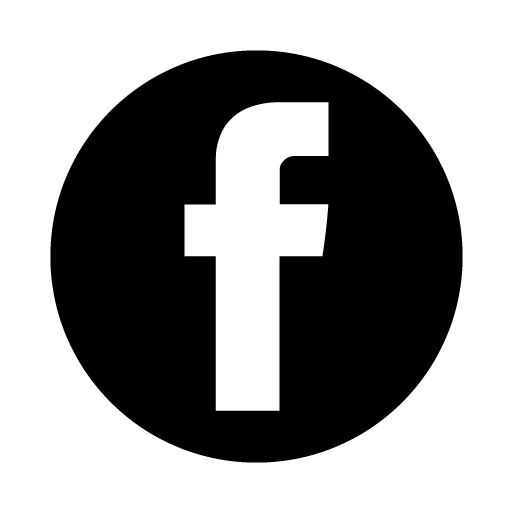
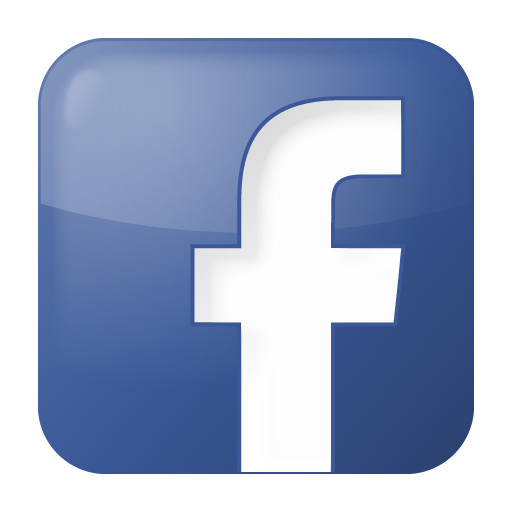
IamBACK

diff --git a/src/App.vue b/src/App.vue
@@ -8,17 +8,18 @@
         </div>
         <div id='footer-view' class="text-center">
             <b-img-lazy
-                    :src="require('../src/assets/fb.png')" width="20" height="20"
+                    :src="require('../src/assets/twit.png')" width="30" height="30"
+                    onclick="window.open('https://twitter.com/HasretKemaliye','twitter','toolbar=yes,scrollbars=yes,resizable=yes,width=4000,height=4000,top=500,left=500')" ></b-img-lazy>
+            <b-img-lazy
+                    :src="require('../src/assets/whats.png')" width="30" height="30"
+                    onclick="window.open('https://www.whatsapp.com/?lang=tr','whatsapp','toolbar=yes,scrollbars=yes,resizable=yes,width=4000,height=4000,top=500,left=500')" ></b-img-lazy>
+            <b-img-lazy
+                    :src="require('../src/assets/fb.png')" width="30" height="30"
                     onclick="window.open('https://www.facebook.com/hasret.kemaliye','facebook','toolbar=yes,scrollbars=yes,resizable=yes,width=4000,height=4000,top=500,left=500')" ></b-img-lazy>
+
             <b-img-lazy
-                    :src="require('../src/assets/twitter.png')" width="20" height="20"
-                    onclick="window.open('https://twitter.com/HasretKemaliye','twitter','width=500,height=500')" ></b-img-lazy>
-            <b-img-lazy
-                    :src="require('../src/assets/w.png')" width="20" height="20"
-                    onclick="window.open('https://www.whatsapp.com/?lang=tr','whatsapp','width=500,height=500')" ></b-img-lazy>
-            <b-img-lazy
-                    :src="require('../src/assets/instagram.png')" width="20" height="20"
-                    onclick="window.open('https://www.instagram.com/hasretgazetesi/','instagram','width=500,height=500')" ></b-img-lazy>
+                    :src="require('./assets/insta.png')" width="30" height="30"
+                    onclick="window.open('https://www.instagram.com/hasretgazetesi/','instagram','toolbar=yes,scrollbars=yes,resizable=yes,width=4000,height=4000,top=500,left=500')" ></b-img-lazy>
             <div class="container">
 
                 <p class="text-center text-white">©{{ new Date().getFullYear() }} Copyright — Kemaliye</p>
